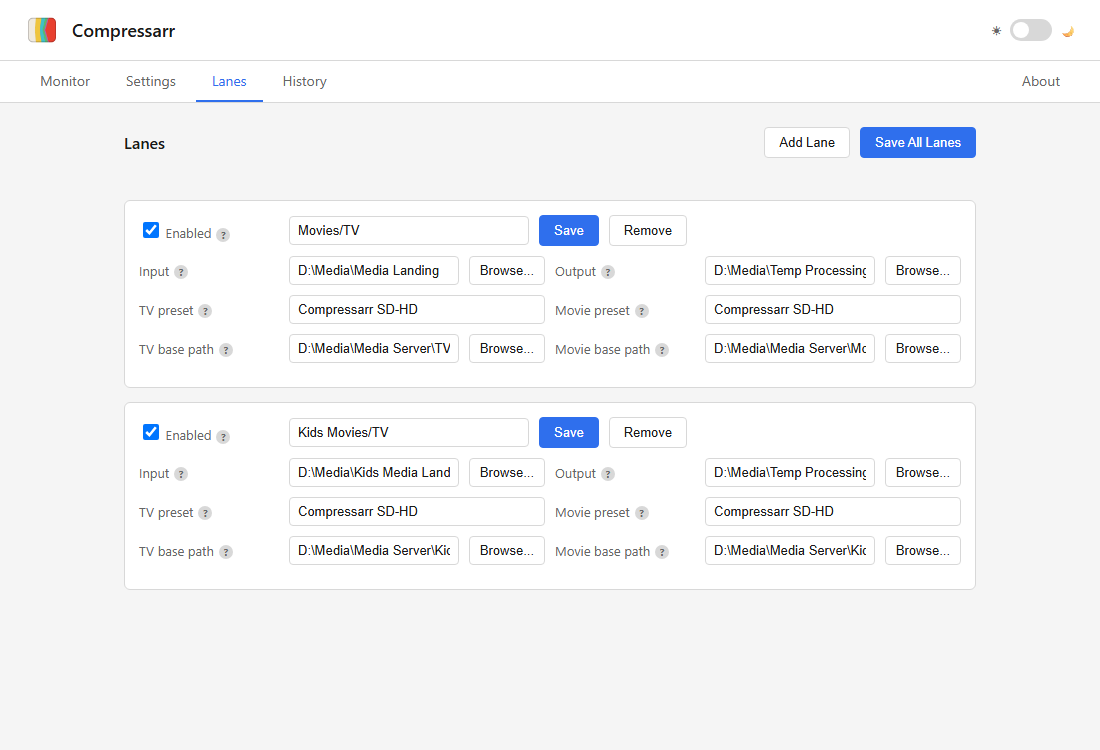
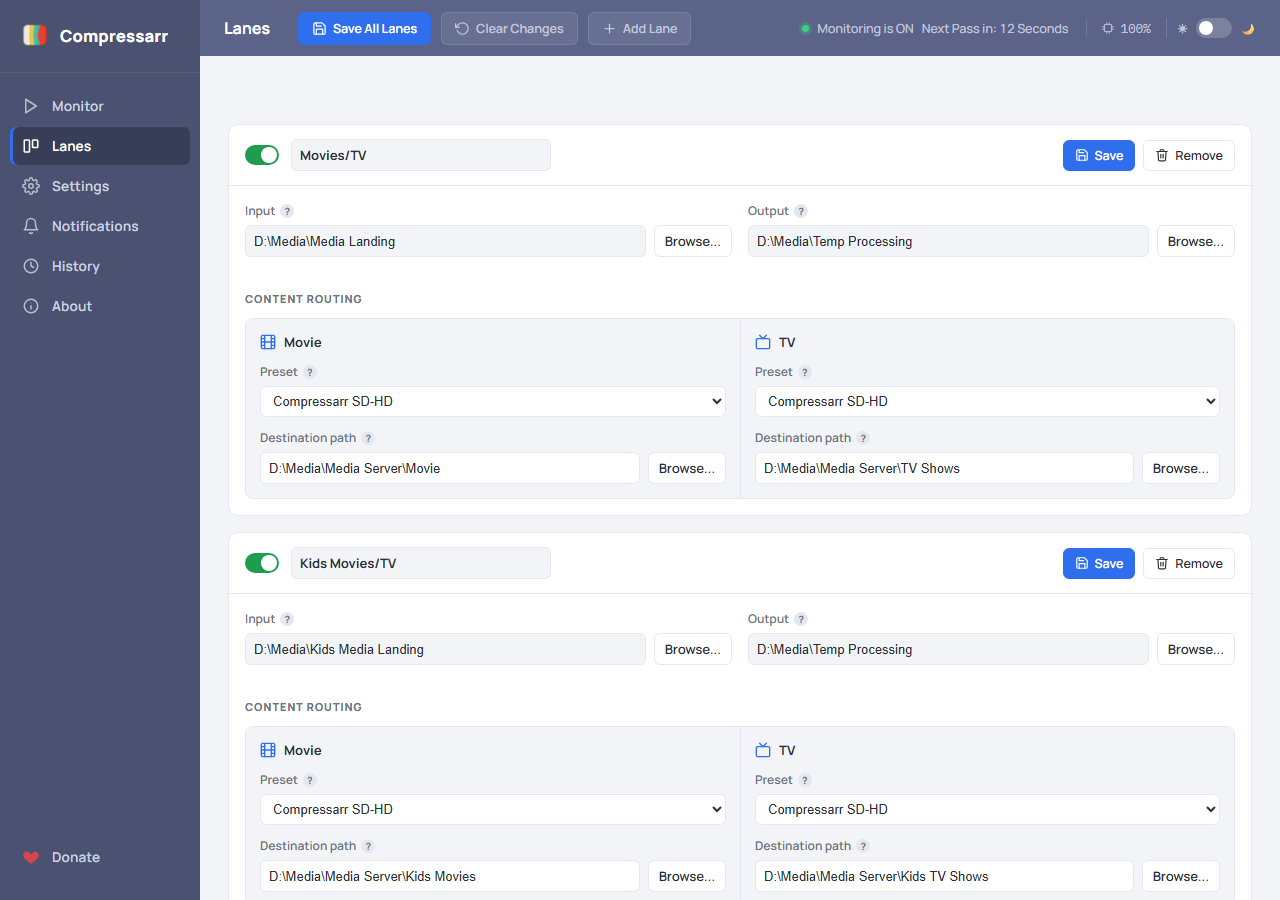
Recapture stale screenshots, add Notifications docs to README/CHANGELOG
Screenshots (Monitor, Settings, Lanes, History, and a new Notifications
one) predated the sidebar/toolbar redesign and still showed the old
top-tab-bar UI. Recaptured all 5 against the current live app via
headless Edge's --screenshot flag (writes a PNG straight to disk from a
real render, sidestepping the earlier blocker of not having a reliable
way to persist a Browser-pane screenshot to an exact file path). The
existing sample-report.png was left untouched - HTML reports are a
self-contained document with no shared app chrome, so the redesign
never affected it.

While testing capture widths, found and confirmed (both headless and
interactively) a real pre-existing layout bug: the toolbar's monitoring
status cluster overlaps the action buttons at ~1100px window width, not
just a rendering artifact. Not fixed here - captured screenshots at a
wider 1280px instead, sidestepping it. Worth a follow-up look at the
toolbar's flex-wrap behavior.

README gets the full Notifications section (setup instructions per
channel type, credential sources, and exactly what data each service
receives - notably that only Generic Webhook and IFTTT include the local
report file path, no other channel does). CHANGELOG's existing
unreleased [2.1.0] entry gets one new bullet for the whole feature.

diff --git a/README.md b/README.md
@@ -85,7 +85,7 @@ file to finish. Drag a queued file to reorder it within its lane, or use its men
 remove it from the queue, or override its preset for just that one file. The recent-log panel and
 CPU usage update live while a pass runs.
 
-<img src="Assets/Screenshots/monitor-page.png" alt="Compressarr Monitor page, showing a real conversion in progress with live percent/fps/ETA and the In Queue list" width="700">
+<img src="Assets/Screenshots/monitor-page.png" alt="Compressarr Monitor page, showing the In Queue list and recent activity log while monitoring is on" width="700">
 
 *The media shown is representational test data only, not the actual film - your own results
 (speed, file size, savings) will vary based on your source files, hardware, and preset.*
@@ -219,6 +219,111 @@ Two things to know:
   Presets** button on Settings (in the HandBrake card) to re-add Compressarr's presets to it.
 - Use **Backup Now** on Settings at any time to take a fresh backup before decommissioning a
   machine, rather than relying only on the automatic schedule.
+
+### Notifications page
+
+<img src="Assets/Screenshots/notifications-page.png" alt="Compressarr Notifications page, showing the toast toggle and two configured channels" width="700">
+
+Get a message wherever you already look - Discord, Slack, your phone, a self-hosted push server,
+or any automation platform - when a run finishes. Every channel is optional and off by default;
+add as many as you want, of as many different types as you want (two Discord servers, a Slack
+workspace, and a phone push, all at once).
+
+**Desktop toast notifications**: a Windows toast confirming completion and opening the report when
+clicked. Off by default (useful on a desktop machine, not needed for a headless/server install) -
+toggle it on the Notifications page.
+
+**Notification channels**: click **Add Channel**, pick a service from the dropdown, and fill in
+its fields - every field has a **?** bubble next to it explaining what it needs and, where
+relevant, where to find it. Each channel has:
+
+| Field | What it's for |
+|---|---|
+| Trigger | Always, On error or warning, or Never (kept configured but disabled without deleting it) |
+| Name | A friendly label to tell channels of the same type apart, e.g. two different Discord servers |
+| Test | Sends a test message using whatever's currently typed in, even if not yet saved |
+| Save / Remove | Persist or delete this channel |
+
+**What data is sent**: every channel receives the run number, an aggregate summary (e.g. "12
+file(s) processed, 4.2 GB saved"), and the outcome (success/warning/error) - never filenames,
+media titles, folder paths, or anything else from your configuration. The one exception is the
+local path to the HTML report file, which only the **Generic Webhook** and **IFTTT** channels
+include - worth knowing before pointing either at a third-party service, since a path like
+`C:\Users\you\AppData\Roaming\Compressarr\Reports\...` leaves your machine as plain text. Every
+other channel type (Discord, Slack, Telegram, Pushover, ntfy, Gotify, Notifiarr) never sends the
+report path at all.
+
+#### Supported services
+
+| Service | What it needs |
+|---|---|
+| [Generic Webhook](#generic-webhook-zapier-make-n8n-node-red-home-assistant) | A URL, HTTP method, and optional custom headers |
+| [Discord](#discord) | A channel webhook URL |
+| [Slack](#slack) | An incoming webhook URL |
+| [Telegram](#telegram) | A bot token and chat ID |
+| [Pushover](#pushover) | An application token and user key |
+| [ntfy](#ntfy) | A server URL (defaults to the public ntfy.sh) and topic |
+| [Gotify](#gotify) | Your self-hosted server URL and an application token |
+| [Notifiarr](#notifiarr) | Your Notifiarr API key and a Discord channel ID |
+| [IFTTT](#ifttt) | An event name and your Webhooks key |
+
+##### Generic Webhook (Zapier, Make, n8n, Node-RED, Home Assistant)
+
+Posts a JSON body (title, outcome, file count, space saved, duration, report path) to any URL you
+give it, with an HTTP method and custom headers of your choosing. This single channel type also
+fully covers **Zapier** ("Webhooks by Zapier"), **Make** ("Webhooks" module), **n8n** (Webhook
+node), **Node-RED** (`http in` node), and **Home Assistant** (a webhook automation trigger) - all
+of them accept an arbitrary POST with no required shape, so just point this at whichever
+platform's own webhook URL.
+
+##### Discord
+
+In Discord, go to a channel's **Edit Channel > Integrations > Webhooks**, create one, and paste
+its URL into the Webhook URL field. Compressarr posts a color-coded embed (green/yellow/red for
+success/warning/error) with file count, space saved, and duration.
+
+##### Slack
+
+Create an **Incoming Webhook** for your workspace at [api.slack.com/apps](https://api.slack.com/apps)
+and paste its URL in. Messages use Slack's mrkdwn formatting with a status emoji.
+
+##### Telegram
+
+Message **@BotFather** on Telegram to create a bot and get its Bot Token. For the Chat ID, message
+**@userinfobot** to find your own, or check your bot's `getUpdates` response for a group/channel
+ID. Messages are sent as plain text.
+
+##### Pushover
+
+Create an Application at [pushover.net/apps/build](https://pushover.net/apps/build) for the
+Application API Token, and find your User Key on your Pushover dashboard.
+
+##### ntfy
+
+Works with the public [ntfy.sh](https://ntfy.sh) instance out of the box - just pick a Topic (any
+string; make it unique and hard to guess, since anyone who knows it can subscribe to it too). If
+you self-host ntfy, change the Server URL to point at your own instance. An optional Access Token
+supports protected topics.
+
+##### Gotify
+
+Gotify is self-hosted only (no public hosted service) - point Server URL at your own instance, and
+create an Application in Gotify's web UI (Apps tab) for the Application Token.
+
+##### Notifiarr
+
+Built for the *arr ecosystem: relays into whichever Discord channel your Notifiarr integration is
+configured to post to. Find your API Key on your Notifiarr account page under **My Account > API
+Key**. For the Discord Channel ID, enable Developer Mode in Discord (User Settings > Advanced),
+then right-click the target channel and **Copy Channel ID**.
+
+##### IFTTT
+
+Create an applet with a **Receive a web request** trigger and give it an Event Name (used in the
+Event Name field here). Find your Webhooks Key at
+[ifttt.com/maker_webhooks](https://ifttt.com/maker_webhooks) under Documentation - it's the string
+after `/use/` in your personal URL. Compressarr sends title/body/report path as IFTTT's
+`value1`/`value2`/`value3` ingredients for use in your applet's action.
 
 ### Lanes page
 

diff --git a/CHANGELOG.md b/CHANGELOG.md
@@ -36,6 +36,11 @@ for that full history.
   card-based layout across Settings, Lanes, History, and About.
 - A Donate page with QR codes and one-click copy for several cryptocurrency addresses.
 - A small indicator appears in the toolbar when a newer version of Compressarr is available.
+- Notification channels (Notifications page): get a message when a run completes via Discord,
+  Slack, Telegram, Pushover, ntfy, Gotify, Notifiarr, IFTTT, or a custom webhook (which also
+  covers Zapier, Make, n8n, Node-RED, and Home Assistant) - configure as many channels as you
+  want, each with its own trigger (always / only on error or warning / never) and a Test button.
+  A separate toggle controls the existing Windows toast notification, now off by default.
 
 ### Changed
 - Start/Stop Monitoring is now a single toggle button instead of two separate ones.
